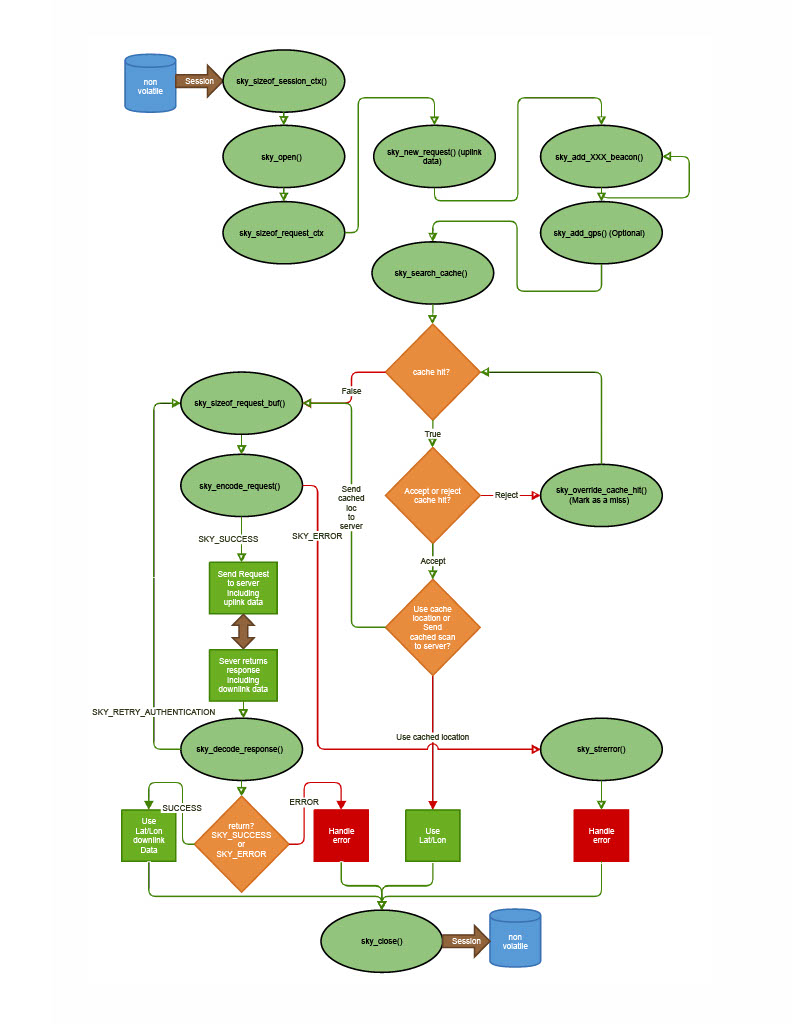
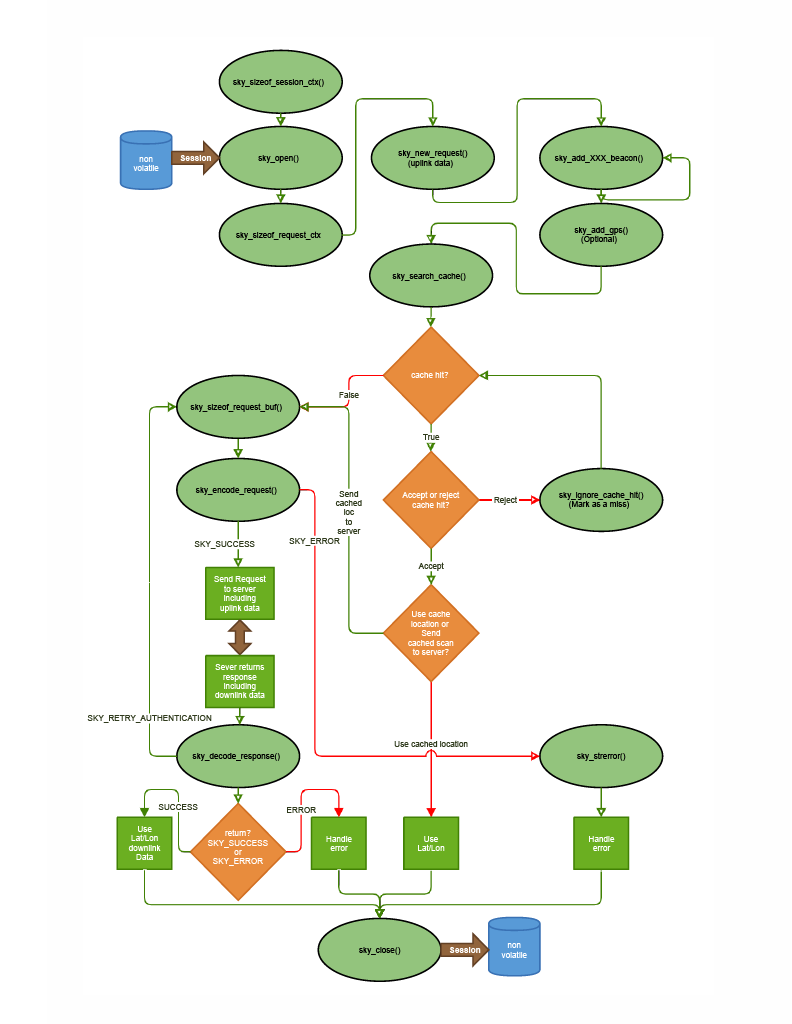
[EC-178] Update with review comments
sky_override_cache_hit() -> sky_ignore_cache_hit()
update comments

diff --git a/sample_client/sample_client.c b/sample_client/sample_client.c
@@ -451,30 +451,31 @@ static int locate(void *ctx, uint32_t bufsize, void *session, Config_t *config, 
     }
     /* All data has been added to new scan info */
 
-    /* check to see if new scan has a cache hit on known locations (aka stationary test) */
+    /* check to see if new scan matches cached scan (i.e. test for stationarity) */
     sky_search_cache(ctx, &sky_errno, &cache_hit, loc);
 
-    /* If cache hit, do one of the following
+    /* if cache hit, do one of the following
      *  a) if regular reports of position are priority, encode cached scan and send to server
-     *  b) if minimizing network traffic is priority, simply use loc from cache in application,
-     *  c) if network resourses allow all locations to be reported to the server,
-     *      . if cached scan is not trusted, clear cache hit status and encoding request
-     *      . otherwise encode request (which will include cached scan for a cache hit)
+     *  b) if minimizing network traffic is priority, simply use loc from cache in application
+     *  c) if network resources allow all locations to be reported to the server
+     *    - if cached scan (and associated location estimate) is not suitable for some reason,
+     *      clear cache hit status by calling sky_ignore_cache_hit() and then call sky_encode_request()
+     *    - otherwise, call sky_encode_request() (which will encode the cached location in case of cache hit)
      *
-     * If cache miss
-     *  encode the request (which will include new scan for a cache miss)
+     * if cache miss
+     *  call sky_encode_request() (which will encode the new scan information)
      */
 
     if (cache_hit) {
-        /*     // loc has been updated from cache. If application wants to use the cached
-         *     // location simply return here
-         *     return SKY_SUCCESS;
+        /* new scan matches cached scan. Application may choose to use the
+         * associated location estimate here, and then simply return, without reporting
+         * the cached location estimation to the server
          */
 
         /* if (low confidence in cached location)
          *     // remove cache hit status. New scan will be encoded in request
          *     cache_hit = false;
-         *     sky_override_cache_hit(ctx, &sky_errno, cache_hit);
+         *     sky_ignore_cache_hit(ctx, &sky_errno);
          */
         if (cache_hit)
             printf("Location found in cache\n");
@@ -486,7 +487,7 @@ static int locate(void *ctx, uint32_t bufsize, void *session, Config_t *config, 
  */
 retry_after_auth:
     /* Determine how big the network request buffer must be, and allocate a
-         * buffer of that length. This function must be called for each request */
+     * buffer of that length. This function must be called for each request */
     if (sky_sizeof_request_buf(ctx, &request_size, &sky_errno) == SKY_ERROR) {
         printf("sky_sizeof_request_buf error '%s'\n", sky_perror(sky_errno));
         return false;
@@ -496,7 +497,7 @@ retry_after_auth:
     } else if (sky_encode_request(ctx, &sky_errno, prequest, request_size, &response_size) ==
                SKY_ERROR) {
         free(prequest);
-        printf("sky_finalize_request error '%s'", sky_perror(sky_errno));
+        printf("sky_encode_request error '%s'", sky_perror(sky_errno));
         return false;
     } else {
         /* send the request to the server. */
@@ -598,7 +599,7 @@ int main(int argc, char *argv[])
         exit(-1);
     print_config(&config);
 
-    /* Retrieve saved state, if any. State includes cached scans and
+    /* Retrieve saved state, if any. State includes cached scans (with associated location estimate) and
      * registration information. Failure to retrieve state will force a
      * reregistration sequence and will limit stationary detection,
      * which will result in needless additional messaging to and from

diff --git a/libel/libel.c b/libel/libel.c
@@ -1063,33 +1063,28 @@ Sky_status_t sky_search_cache(
     return set_error_status(sky_errno, SKY_ERROR_NONE);
 }
 
-/*! \brief force cache hit or miss status
+/*! \brief force cache miss status
  *
  *  @param ctx Skyhook request context
  *  @param sky_errno skyErrno is set to the error code
- *  @param cache_hit true/false
  *
  *  @return SKY_SUCCESS or SKY_ERROR and sets sky_errno with error code
  */
-Sky_status_t sky_override_cache_hit(Sky_ctx_t *ctx, Sky_errno_t *sky_errno, bool cache_hit)
+Sky_status_t sky_ignore_cache_hit(Sky_ctx_t *ctx, Sky_errno_t *sky_errno)
 {
     if (!validate_request_ctx(ctx))
         return set_error_status(sky_errno, SKY_ERROR_BAD_REQUEST_CTX);
 
 #if CACHE_SIZE
-    if (IS_CACHE_HIT(ctx) && !cache_hit) {
+    if (IS_CACHE_HIT(ctx)) {
         LOGFMT(ctx, SKY_LOG_LEVEL_DEBUG, "Clearing hit status for cacheline %d!", ctx->get_from);
         ctx->hit = false;
-    } else if (IS_CACHE_MISS(ctx) && ctx->get_from != -1 && cache_hit) {
-        LOGFMT(ctx, SKY_LOG_LEVEL_DEBUG, "Setting cache hit for cacheline %d!", ctx->get_from);
-        ctx->hit = true;
-    } else if (cache_hit)
-        LOGFMT(ctx, SKY_LOG_LEVEL_WARNING, "No cache entry to select as hit");
-    else
+    } else {
         LOGFMT(ctx, SKY_LOG_LEVEL_WARNING, "No cache entry selected to clear");
+    }
     return set_error_status(sky_errno, SKY_ERROR_NONE);
 #else
-    LOGFMT(ctx, SKY_LOG_LEVEL_ERROR, "Can't report cached beacons with no cache");
+    LOGFMT(ctx, SKY_LOG_LEVEL_ERROR, "Can't ignore cache with no cache");
     return set_error_status(sky_errno, SKY_ERROR_BAD_SESSION_CTX);
 #endif
 }

diff --git a/libel/libel.h b/libel/libel.h
@@ -251,7 +251,7 @@ Sky_status_t sky_add_gnss(Sky_ctx_t *ctx, Sky_errno_t *sky_errno, float lat, flo
     uint16_t hpe, float altitude, uint16_t vpe, float speed, float bearing, uint16_t nsat,
     time_t timestamp);
 
-Sky_status_t sky_override_cache_hit(Sky_ctx_t *ctx, Sky_errno_t *sky_errno, bool cache_hit);
+Sky_status_t sky_ignore_cache_hit(Sky_ctx_t *ctx, Sky_errno_t *sky_errno);
 
 Sky_status_t sky_encode_request(Sky_ctx_t *ctx, Sky_errno_t *sky_errno, void *request_buf,
     uint32_t bufsize, uint32_t *response_size);

diff --git a/unittests/libel.ut.c b/unittests/libel.ut.c
@@ -296,7 +296,7 @@ TEST_FUNC(test_sky_gnss)
         ctx->session->cacheline[0].gnss.lon = 140.618906;
         ctx->session->cacheline[0].gnss.hpe = 17;
         sky_search_cache(ctx, &sky_errno, NULL, &loc);
-        sky_override_cache_hit(ctx, &sky_errno, true);
+        ASSERT(ctx->hit == true);
         ASSERT(sky_sizeof_request_buf(ctx, &buf_size, &sky_errno) == SKY_SUCCESS);
         ASSERT(ctx->gnss.lat == ctx->session->cacheline[0].gnss.lat);
         ASSERT(ctx->gnss.lon == ctx->session->cacheline[0].gnss.lon);

diff --git a/README.md b/README.md
@@ -33,11 +33,11 @@
             * [sky_add_cell_nr_beacon() - Adds a nr cell beacon to the request context](#sky_add_cell_nr_beacon---adds-a-nr-cell-beacon-to-the-request-context)
             * [sky_add_cell_nr_neighbor_beacon() - Adds a neighbor nr cell beacon to the request context](#sky_add_cell_nr_neighbor_beacon---adds-a-neighbor-nr-cell-beacon-to-the-request-context)
             * [sky_add_gnss() - Adds the position of the device from GNSS (GPS, GLONASS, or others) to the request context](#sky_add_gnss---adds-the-position-of-the-device-from-gnss-gps-glonass-or-others-to-the-request-context)
+            * [sky_search_cache()  - compares the new request beacons with those in the cache](#sky_search_cache---compares-the-new-request-beacons-with-those-in-the-cache)
+            * [sky_ignore_cache_hit()  - allows the result of sky_search_cache() to be overridden](#sky_ignore_cache_hit---allows-the-result-of-sky_search_cache-to-be-overridden)
             * [sky_sizeof_request_buf()  - determines the size of the network request buffer which must be provided by the user](#sky_sizeof_request_buf----determines-the-size-of-the-network-request-buffer-which-must-be-provided-by-the-user)
             * [sky_encode_request() - generate a Skyhook request from the request context](#sky_encode_request---generate-a-skyhook-request-from-the-request-context)
             * [sky_decode_response() - decodes a Skyhook server response](#sky_decode_response---decodes-a-skyhook-server-response)
-            * [sky_search_cache()  - compares the new request beacons with those in the cache](#sky_search_cache---compares-the-new-request-beacons-with-those-in-the-cache)
-            * [sky_override_cache_hit()  - allows the result of sky_search_cache() to be overridden](#sky_override_cache_hit---allows-the-result-of-sky_search_cache-to-be-overridden)
             * [sky_get_option() - query the value of a configuration parameter](#sky_get_option---query-the-value-of-a-configuration-parameter)
             * [sky_set_option() - set the value of a configuration parameter](#sky_set_option---set-the-value-of-a-configuration-parameter)
             * [sky_perror() - returns a string which describes the meaning of sky_errno codes](#sky_perror---returns-a-string-which-describes-the-meaning-of-sky_errno-codes)
@@ -978,7 +978,7 @@ Sky_location_t *loc
  * Parameters
  * ctx              Skyhook request context
  * sky_errno        sky_errno is set to the error code
- * cache_hit        true or false based on the match between new scan and cache
+ * cache_hit        pointer to location where true or false is stored based on the match between new scan and cache
  * loc              where to save device latitude, longitude etc from cache if known
 
  * Returns          `SKY_SUCCESS` or `SKY_ERROR` and sets sky_errno with error code
@@ -987,7 +987,7 @@ Sky_location_t *loc
 
 Optionally called after all beacon and GNSS data has been added (via the sky_add_*() functions) in order to determine
 whether there is a good match to the new scan in the cache. Loc is set to the location of the matching cache when a
-cache hit is found.
+cache hit.
 
 sky_search_cache() may report the following error conditions in sky_errno:
 
@@ -996,34 +996,29 @@ sky_search_cache() may report the following error conditions in sky_errno:
 | `SKY_ERROR_NONE`                                | No error
 | `SKY_ERROR_BAD_REQUEST_CTX`                     | The request context structure is corrupt
 
-### sky_override_cache_hit() - allows the result of sky_search_cache to be overridden
+### sky_ignore_cache_hit() - allows the result of sky_search_cache to be overridden
 
 ```c
-Sky_status_t sky_override_cache_hit(Sky_ctx_t *ctx,
-Sky_errno_t *sky_errno,
-bool cache_hit,
+Sky_status_t sky_ignore_cache_hit(Sky_ctx_t *ctx,
+Sky_errno_t *sky_errno
 )
 
 /*
  * Parameters
  * ctx              Skyhook request context
  * sky_errno        sky_errno is set to the error code
- * cache_hit        true or false based on the desired match between new scan and cache
 
  * Returns          `SKY_SUCCESS` or `SKY_ERROR` and sets sky_errno with error code
  */
  ```
 
-Optionally called after sky_search_cache(). If cache_hit is true and a cache hit had been found, the hit can be cleared.
-If cache_hit is false, and a cache hit failed to meet the score threshold (but otherwise the cache was a suitable match)
-, the miss can be reassigned to a hit.
+Optionally called after sky_search_cache(). If a cache hit had been found, the hit is cleared.
 
-sky_override_cache_hit() is primarily intended to clear a cache_hit when the cached location is determined to be less
-accurate than the new scan. sky_override_cache_hit() may report the following error conditions in sky_errno:
+A warning is logged if sky_ignore_cache_hit is called after a cache miss. sky_ignore_cache_hit() reports SKY_SUCCESS
+even if a cache hit is not cleared.
 
-sky_override_cache_hit() will not reassign a miss to a hit if no suitable cache match exists. A warning is logged.
-sky_override_cache_hit() will simply report SKY_SUCCESS if no action is required. For example overriding a cache hit
-with cache_hit true will not change the status, or report an error.
+sky_ignore_cache_hit() is provided to clear a cache_hit when the cached location is determined to be less accurate than
+the new scan. sky_override_cache_hit() may report the following error conditions in sky_errno:
 
 | Error Code                                      | Description
 | ----------------------------------------------- | --------------------------------------------------------------
